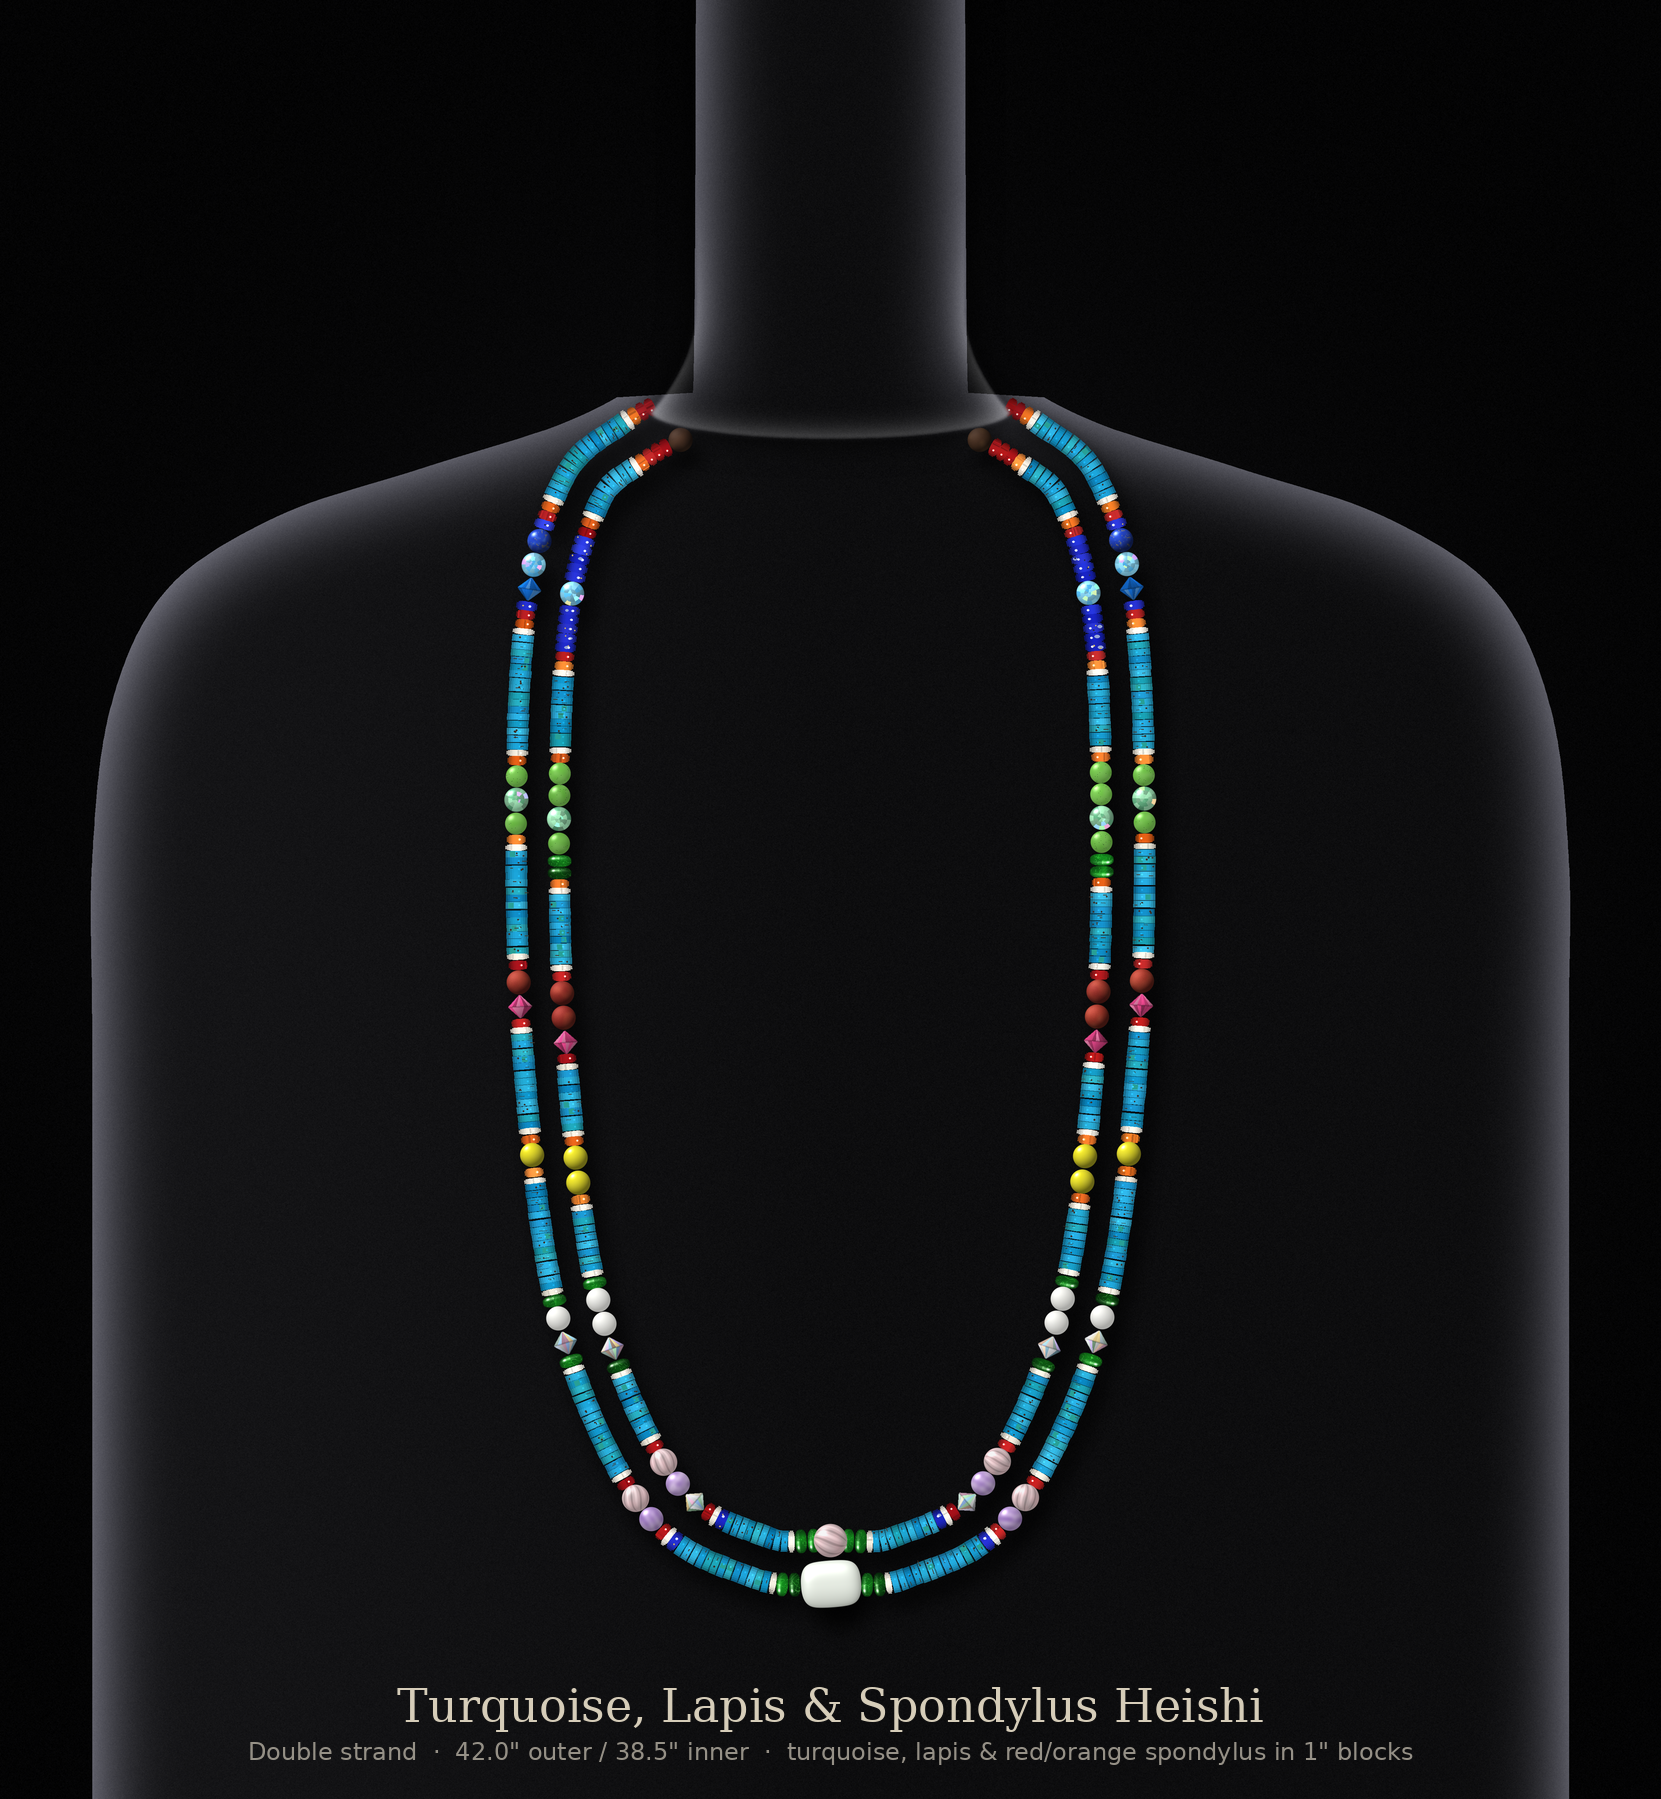
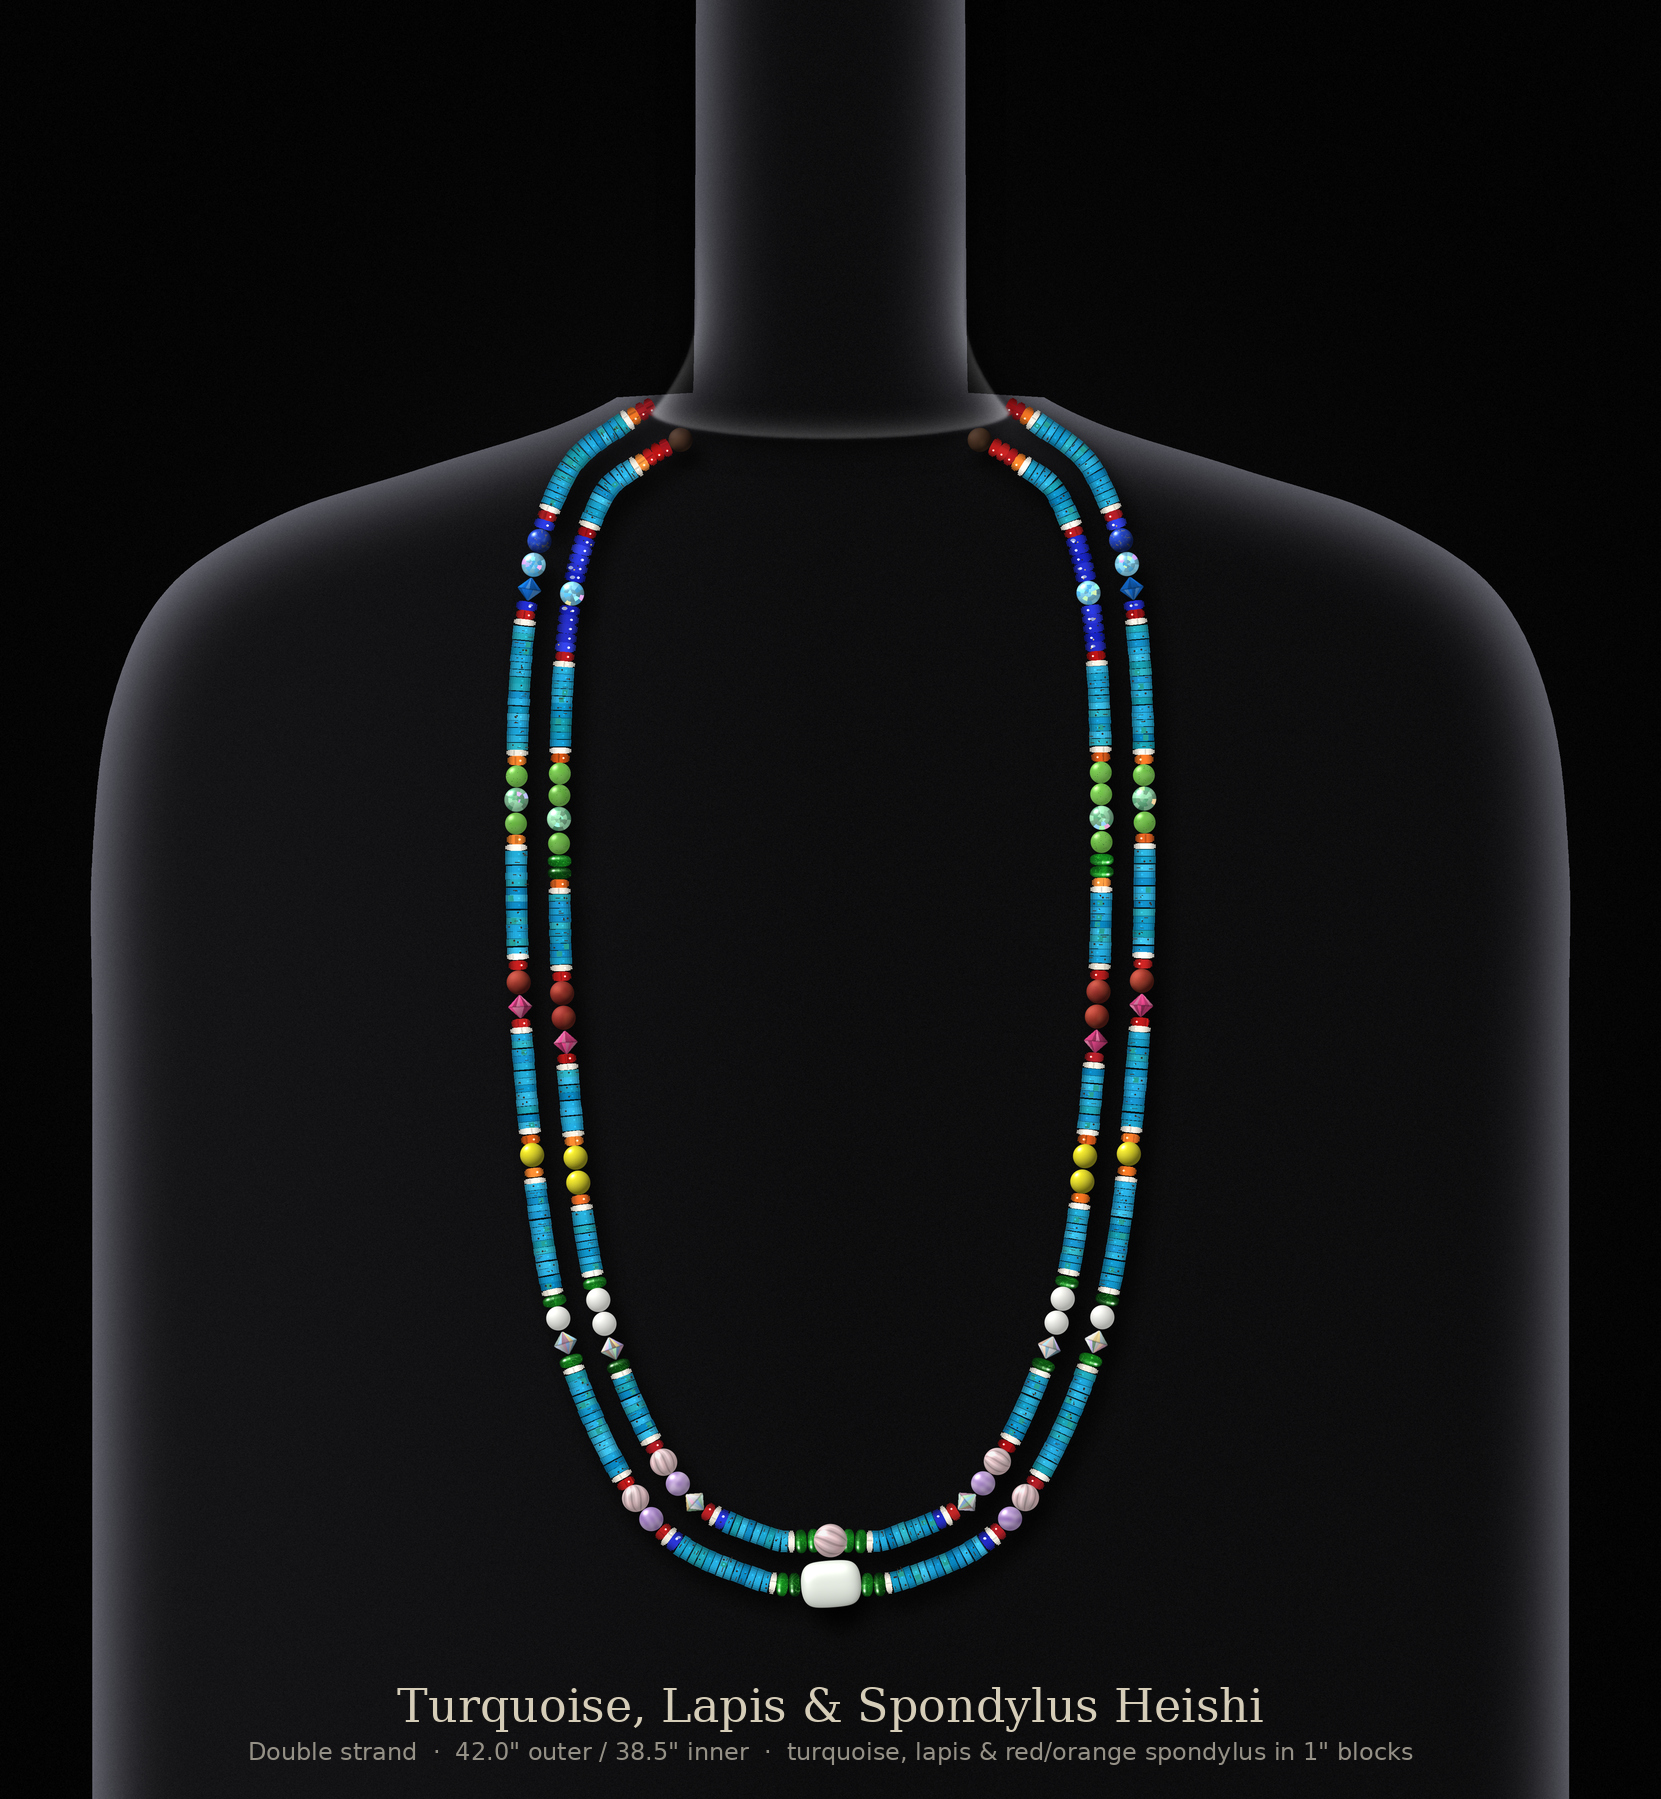
Version 5: remove the oranges at the blue section borders, reds remain
Claude-Session: https://claude.ai/code/session_014be1vF4Rdf8sv9Si75Gudv

diff --git a/necklace/render_necklace.py b/necklace/render_necklace.py
@@ -1518,6 +1518,9 @@ if V4:
                 gaps[8] -= (SZ["diop"] - SZ["red"]) + SZ["red"]  # 4 mm more beads: taken from the turquoise run between them
                 assert STN[8][0] == "diop", STN[8]
                 del STN[8][0]; gaps[8] += SZ["diop"]             # rose section: green border removed, white conch touches the turquoise
+                assert STN[3][1] == "orange" and STN[3][-2] == "orange", STN[3]
+                del STN[3][-2]; del STN[3][1]                    # blue section: oranges removed, reds remain
+                gaps[3] += SZ["orange"]; gaps[4] += SZ["orange"]
                 if st == 0:                                      # outer blue section: blue tourmaline removed, turquoise above and below
                     STN[3].remove("tblue"); gaps[3] += SZ["tblue"] / 2; gaps[4] += SZ["tblue"] / 2
                 if st == 0:                                      # outer: one white round fewer; turquoise above and below fills in
